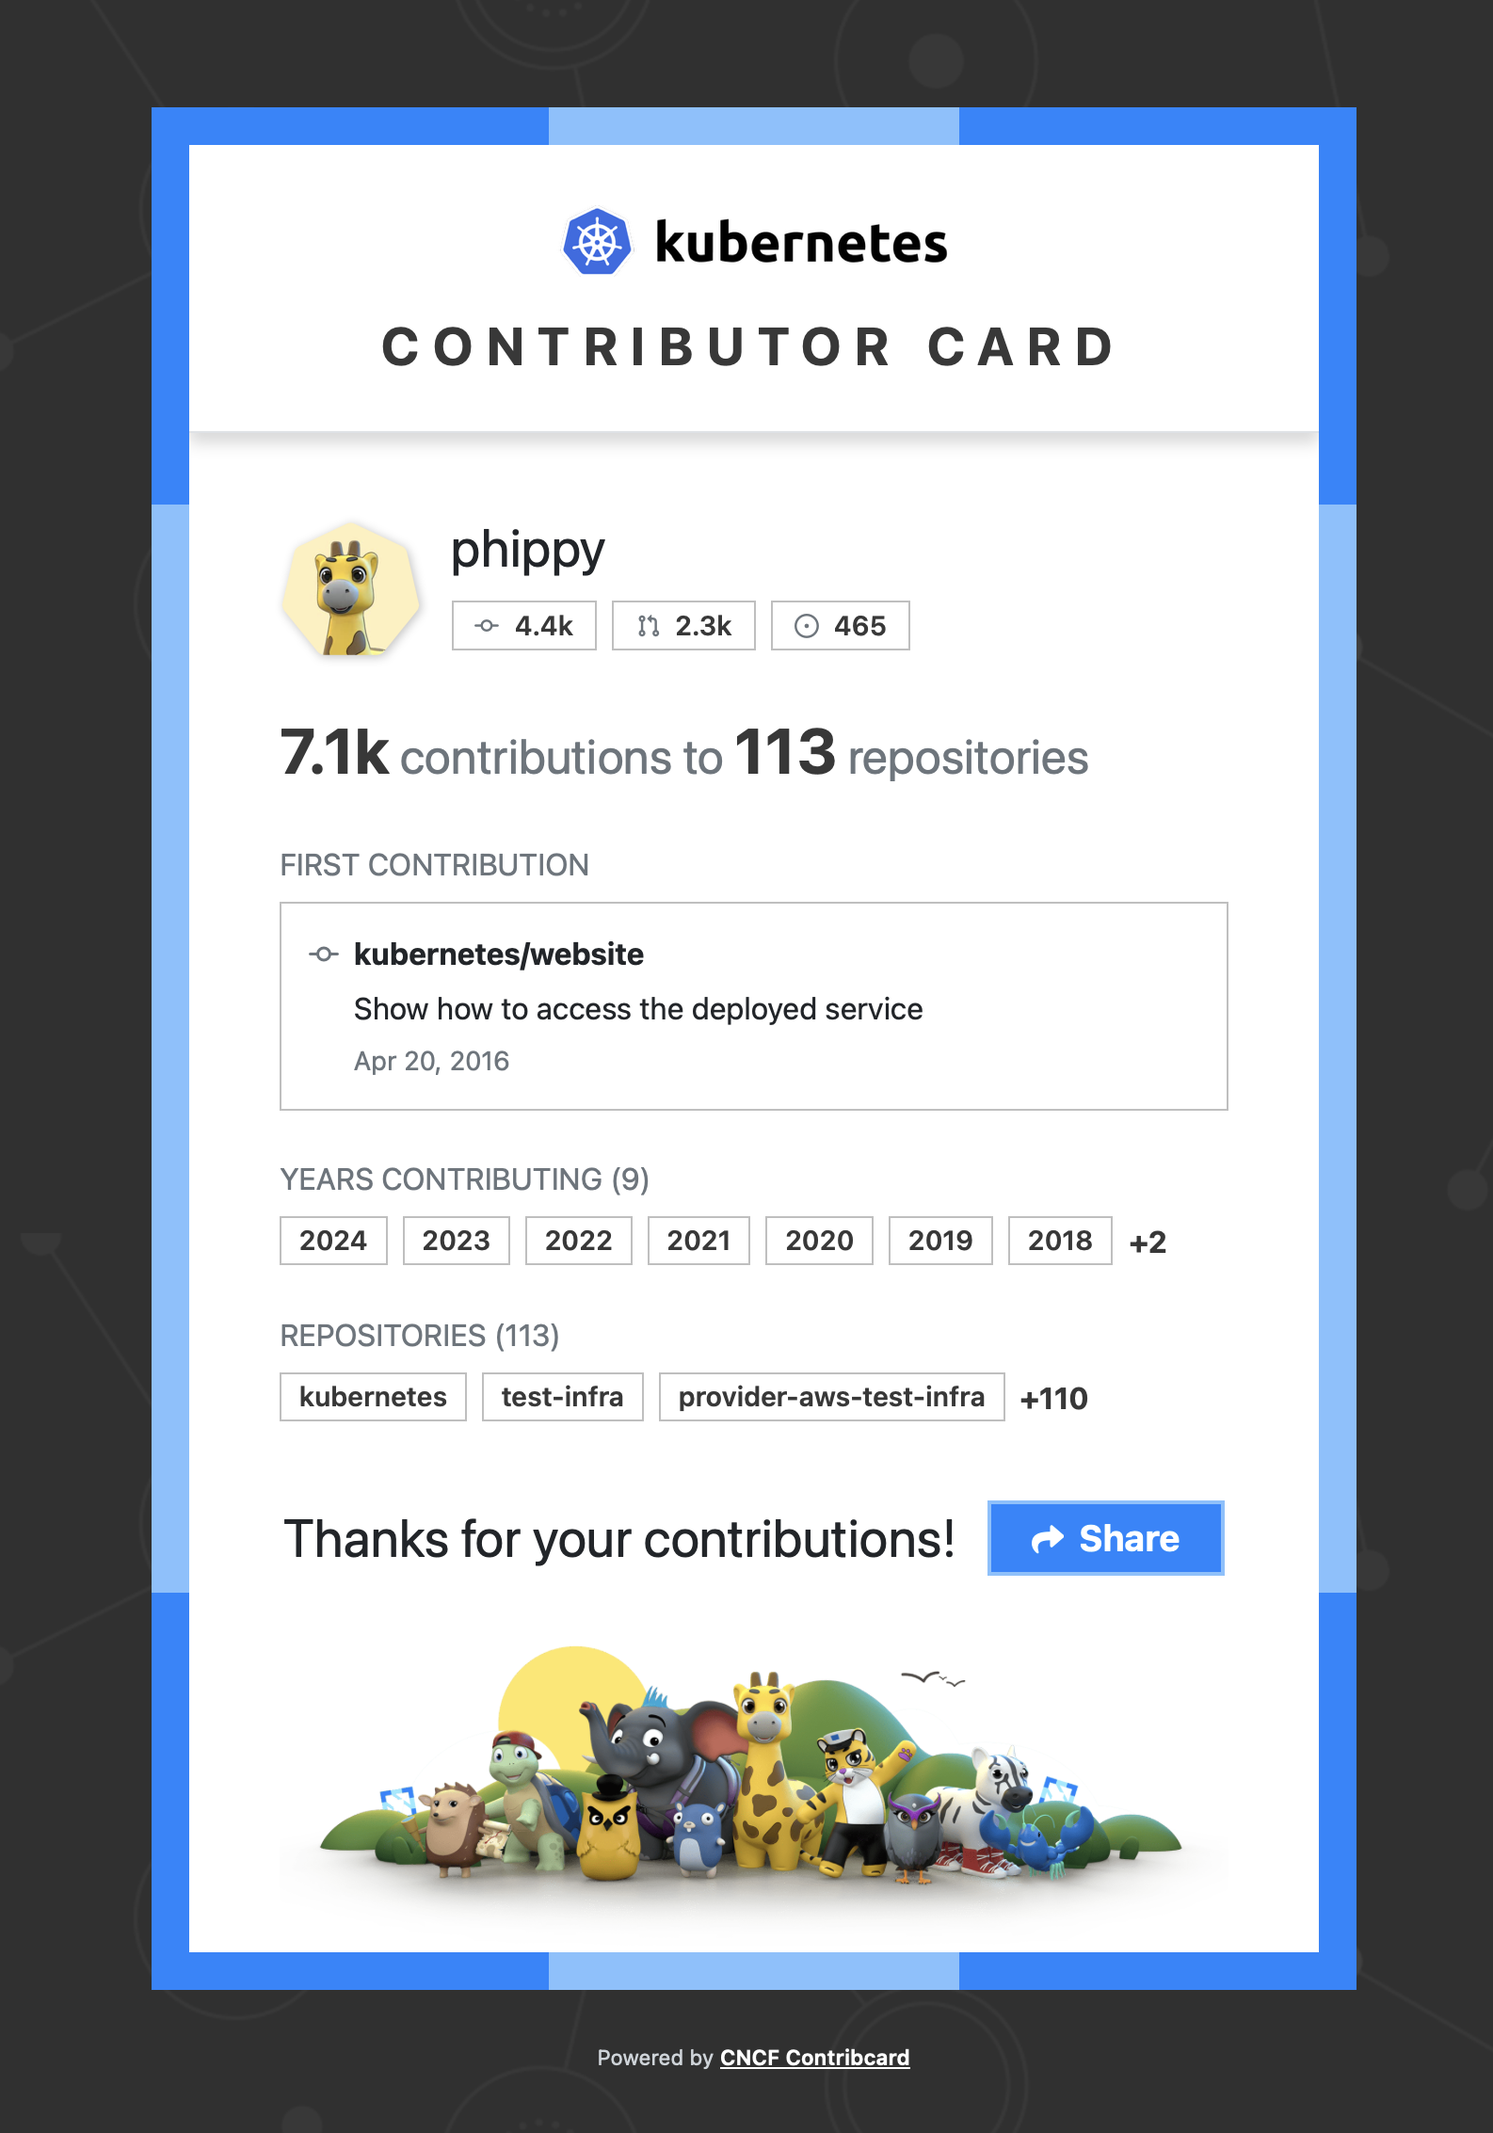
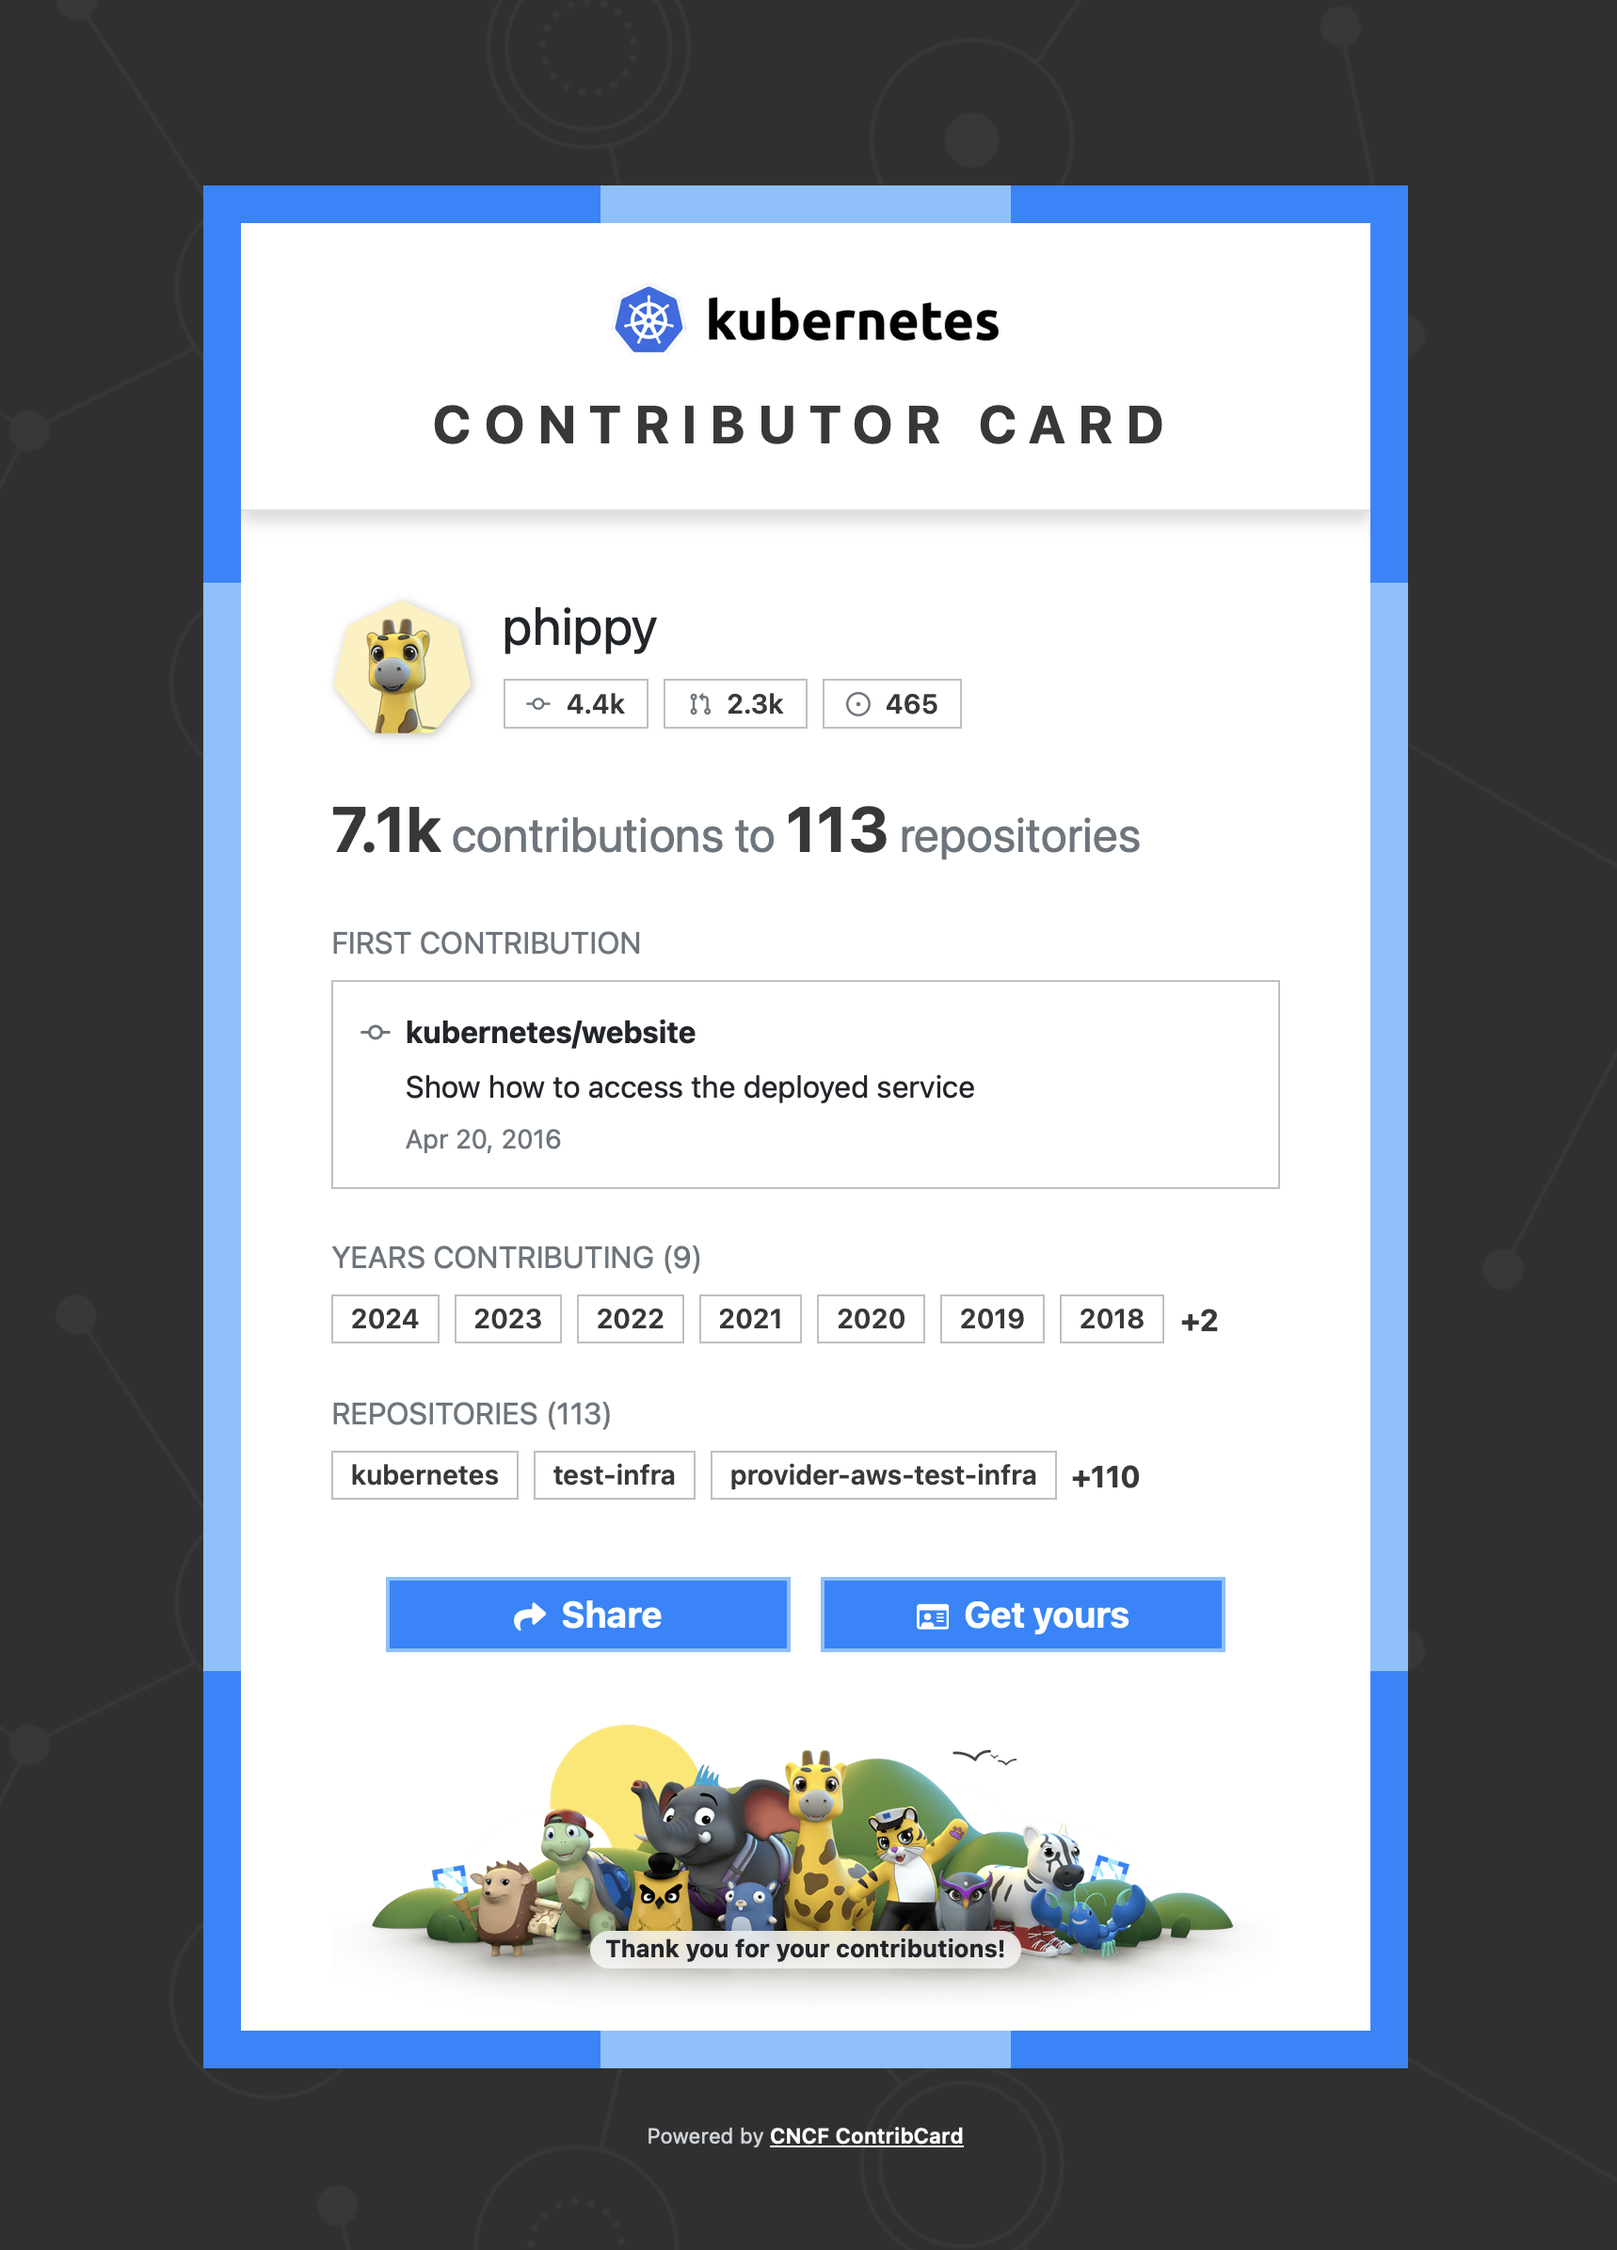
Update share description and screenshots (#36)

Changed region(s): [[0.0927, 0.0309, 0.9269, 0.9885]]

diff --git a/web/src/layout/contributor/ShareContributorLink.tsx b/web/src/layout/contributor/ShareContributorLink.tsx
@@ -92,8 +92,8 @@ const LinkIcon = (props: Props): JSXElement => {
   );
 };
 
-export const DESCRIPTION = `Happy #kuberTENes! Check out my #FirstContribution to Kubernetes`;
-export const HASHTAGS = ['kuberTENes', 'FirstContribution'];
+const MESSAGE = `Happy #kuberTENes! Check out my #FirstContribution to Kubernetes`;
+const HASHTAGS = ['kuberTENes', 'FirstContribution'];
 
 const ShareContributorLink = () => {
   const [visibleButtons, setVisibleButtons] = createSignal<boolean>(false);
@@ -107,16 +107,16 @@ const ShareContributorLink = () => {
     switch (k) {
       case LinkShare.X:
         url += `https://twitter.com/intent/tweet?text=${encodeURIComponent(
-          DESCRIPTION
+          MESSAGE
         )}&url=${urlToShare}&hashtags=${HASHTAGS.join(',')}`;
         break;
       case LinkShare.Facebook:
         url += `https://www.facebook.com/sharer/sharer.php?u=${urlToShare}&hashtag=${HASHTAGS[0]}&quote=${encodeURIComponent(
-          DESCRIPTION
+          MESSAGE
         )}`;
         break;
       case LinkShare.LinkedIn:
-        url += `https://www.linkedin.com/shareArticle?url=${urlToShare}&title=${encodeURIComponent(DESCRIPTION)}&mini=true`;
+        url += `https://www.linkedin.com/shareArticle?url=${urlToShare}&title=${encodeURIComponent(MESSAGE)}&mini=true`;
         break;
       case LinkShare.WhatsApp:
         if (isMobile) {
@@ -124,15 +124,15 @@ const ShareContributorLink = () => {
         } else {
           url += 'https://web.whatsapp.com/send';
         }
-        url += `?text=${encodeURIComponent(`${DESCRIPTION} ${urlToShare}`)}`;
+        url += `?text=${encodeURIComponent(`${MESSAGE} ${urlToShare}`)}`;
         break;
       case LinkShare.Email:
         url += `mailto:?subject=${encodeURIComponent('Happy #kuberTENes!')}&body=${encodeURIComponent(
-          `${DESCRIPTION} ${urlToShare}`
+          `${MESSAGE} ${urlToShare}`
         )}`;
         break;
       case LinkShare.Reddit:
-        url += `https://www.reddit.com/submit?url=${urlToShare}&title=${encodeURIComponent(DESCRIPTION)}`;
+        url += `https://www.reddit.com/submit?url=${urlToShare}&title=${encodeURIComponent(MESSAGE)}`;
         break;
     }
 

diff --git a/web/index.html b/web/index.html
@@ -8,7 +8,7 @@
     <link rel="apple-touch-icon" href="/images/favicon.png" />
     <title>ContribCard</title>
     <meta property="og:title" content="Kubernetes ContribCard" />
-    <meta property="og:description" content="Happy #kuberTENes! Check out my #FirstContribution to Kubernetes https://contribcard.clotributor.dev" />
+    <meta property="og:description" content="Happy #kuberTENes!" />
     <meta property="og:type" content="website" />
     <meta property="og:url" content="https://contribcard.clotributor.dev" />
     <meta property="og:site_name" content="Kubernetes ContribCard" />

diff --git a/web/src/utils/updateMetaTags.ts b/web/src/utils/updateMetaTags.ts
@@ -1,11 +1,5 @@
-import { DESCRIPTION } from '../layout/contributor/ShareContributorLink';
-
 const updateMetaTags = (url?: string) => {
-  const urlToShare = url || window.location.href;
-  const description = `${DESCRIPTION} ${urlToShare}`;
-
-  document.querySelector(`meta[property='og:url']`)!.setAttribute('content', urlToShare);
-  document.querySelector(`meta[property='og:description']`)!.setAttribute('content', description);
+  document.querySelector(`meta[property='og:url']`)!.setAttribute('content', url || window.location.href);
 };
 
 export default updateMetaTags;
